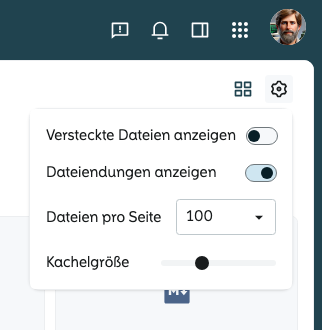
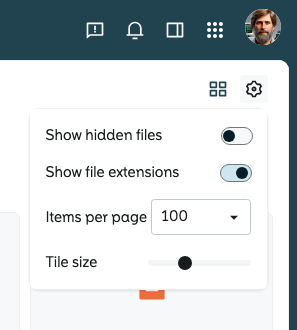
correct the screenshot to englisch (#947)
* correct the screenshot to englisch

* change Anzeigemodi to Ansichtsmodi

Pull request: correct the screenshot to englisch

diff --git a/i18n/de/docusaurus-plugin-content-docs/current/user/general/view-modes.md b/i18n/de/docusaurus-plugin-content-docs/current/user/general/view-modes.md
@@ -1,16 +1,16 @@
 ---
 sidebar_position: 4
 id: view-modes
-title: Anzeigemodi
+title: Ansichtsmodi
 description: Ansichtsmodi für die Dateiliste in OpenCloud
 draft: false
 ---
 
-# Anzeigemodi der Dateiliste in OpenCloud
+# Ansichtsmodi der Dateiliste in OpenCloud
 
-In OpenCloud können Sie zwischen verschiedenen Anzeigemodi für Dateien und Ordner wählen, um die Anzeige nach Ihren Wünschen anzupassen.
+In OpenCloud können Sie zwischen verschiedenen Ansichtsmodi für Dateien und Ordner wählen, um die Anzeige nach Ihren Wünschen anzupassen.
 
-## Verfügbare Anzeigesmodi
+## Verfügbare Ansichtsmodi
 
 ### Kachelansicht
 